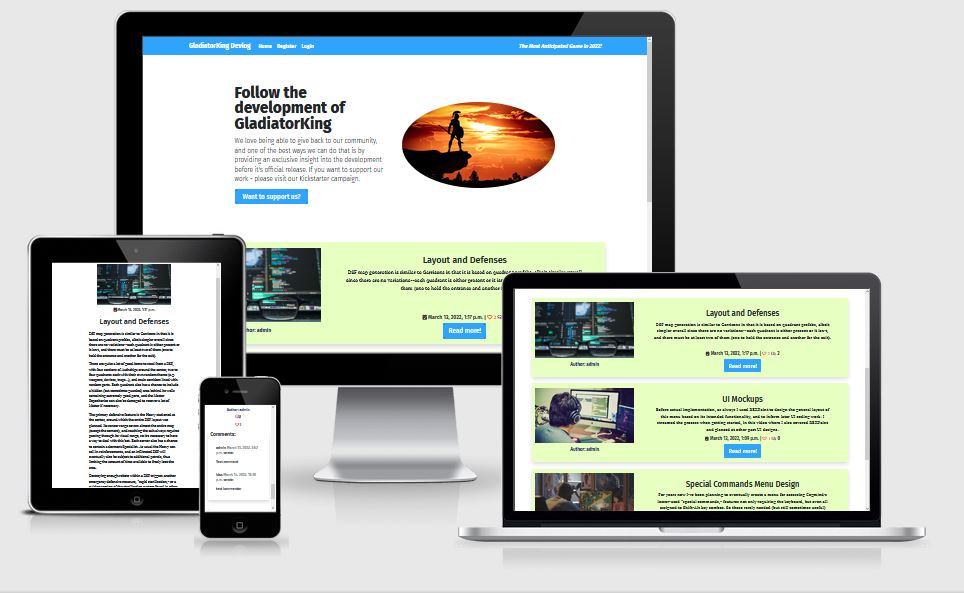
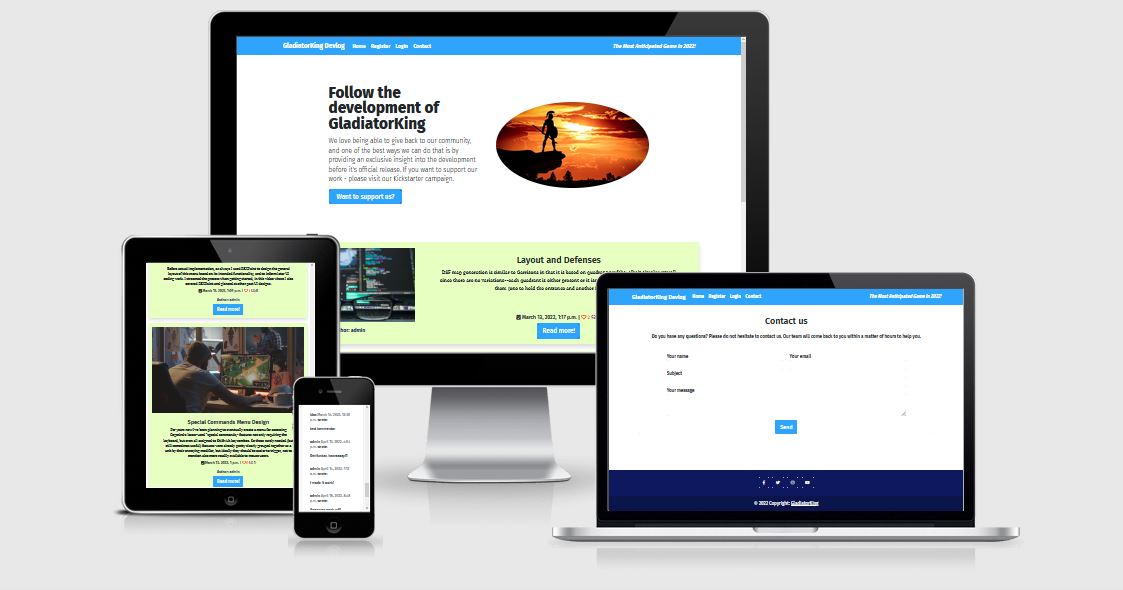
update README file

diff --git a/blog/models.py b/blog/models.py
@@ -70,6 +70,7 @@ class Comment(models.Model):
         """
         return f"Comment {self.body} by {self.name}"
 
+
 class Contact(models.Model):
     """
     Contact model

diff --git a/README.md b/README.md
@@ -70,12 +70,36 @@ If the user wants to join the conversation, the user can easily comment on a blo
 
 ![Commenting](static/images/commenting.jpg)
 
+### **Edit Comment**
+
+If the user wants to change his comment, the user can easily do so by clicking the edit button and change it. 
+
+![Edit Comment](static/images/edit-comment.jpg)
+
+### **Delete Comment**
+
+If the user wants to delete his comment, the user can easily do so by clicking the delete button. 
+
+![Edit Comment](static/images/delete-comment.jpg)
+
+### **Contact**
+
+If the user wants to contact the website owners, the user can easily do so by using this contact form. The message can be found in Django administration under "Contacts". 
+
+![Contact](static/images/contact.jpg)
 
 ---
-## **Wireframes**
+## **Wireframes And Design**
 ---
+Wireframe created in Balsamiq - design of the home page. 
 
-Was inspired by this design when I built GladiatorKing Devlog: https://startbootstrap.com/previews/clean-blog
+![Wireframe](static/images/wireframe.jpg)
+
+I also took inspiration from this website: https://startbootstrap.com/previews/clean-blog
+
+I chose colors that clearly mark and separate different parts of the page, so that the user can easily navigate around the page without getting confused.
+
+The typography I chose is easy to read and stands out to the user. It also gives a professional look to the overall design of the site.
 
 ---
 ## **Django Administration**
@@ -101,6 +125,8 @@ Was inspired by this design when I built GladiatorKing Devlog: https://startboot
 
 - **Delete users.** As an admin, you can delete users if you need to.
 
+- **Submitted contacts.** As an admin, you can view messages sent by users through the website's contact form.
+
 ---
 ## **UX**
 ---
@@ -116,6 +142,11 @@ Was inspired by this design when I built GladiatorKing Devlog: https://startboot
 - Account registration: As a Site User I can register an account so that I can comment and like.
 - Comment on a post: As a Site User I can leave comments on a post so that I can be involved in the conversation.
 - Like/Unlike: As a Site User I can like or unlike a post so that I can interact with the content.
+- Edit comment: As a Site User I can edit my own comment so that I can change my opinion.
+- Delete comment: As a Site User I can delete my own comment so that it disappears from the website. 
+
+**CRUD functionality:** 
+All CRUD functionalities is available for users in the front end.
 
 
 ### **Goals For Website Owners** 
@@ -124,9 +155,8 @@ The goal of the website is to get attention for the game during the development,
 
 ### **Future updates** 
 - Add alot more blogposts, and a filter so users easily can sort the blogposts how they want.
-- Add a contact section, so users easily can contact me using a form.
 
-- Add more features for the users, such as deleting/change their own comment posts, delete their accounts etc. 
+- Add more features for the users, such as an option to edit/delete their accounts etc. 
 
 
 ---
@@ -139,7 +169,7 @@ The goal of the website is to get attention for the game during the development,
 
 - **All links and buttons work.** Every link and button have been checked and works as planned. 
 
-- **In admin panel everything works.** Approve comments, delete comments, create blogposts, delete blogposts, see all user/admin accounts. There's even a 'filter' on the right, so you easily can navigate. 
+- **In admin panel everything works.** Approve comments, delete comments, create blogposts, delete blogposts, view contact messages, see all user/admin accounts. There's even a 'filter' on the right, so you easily can navigate. 
 
 **HTML** - No errors were detected with official W3C validator.
 
